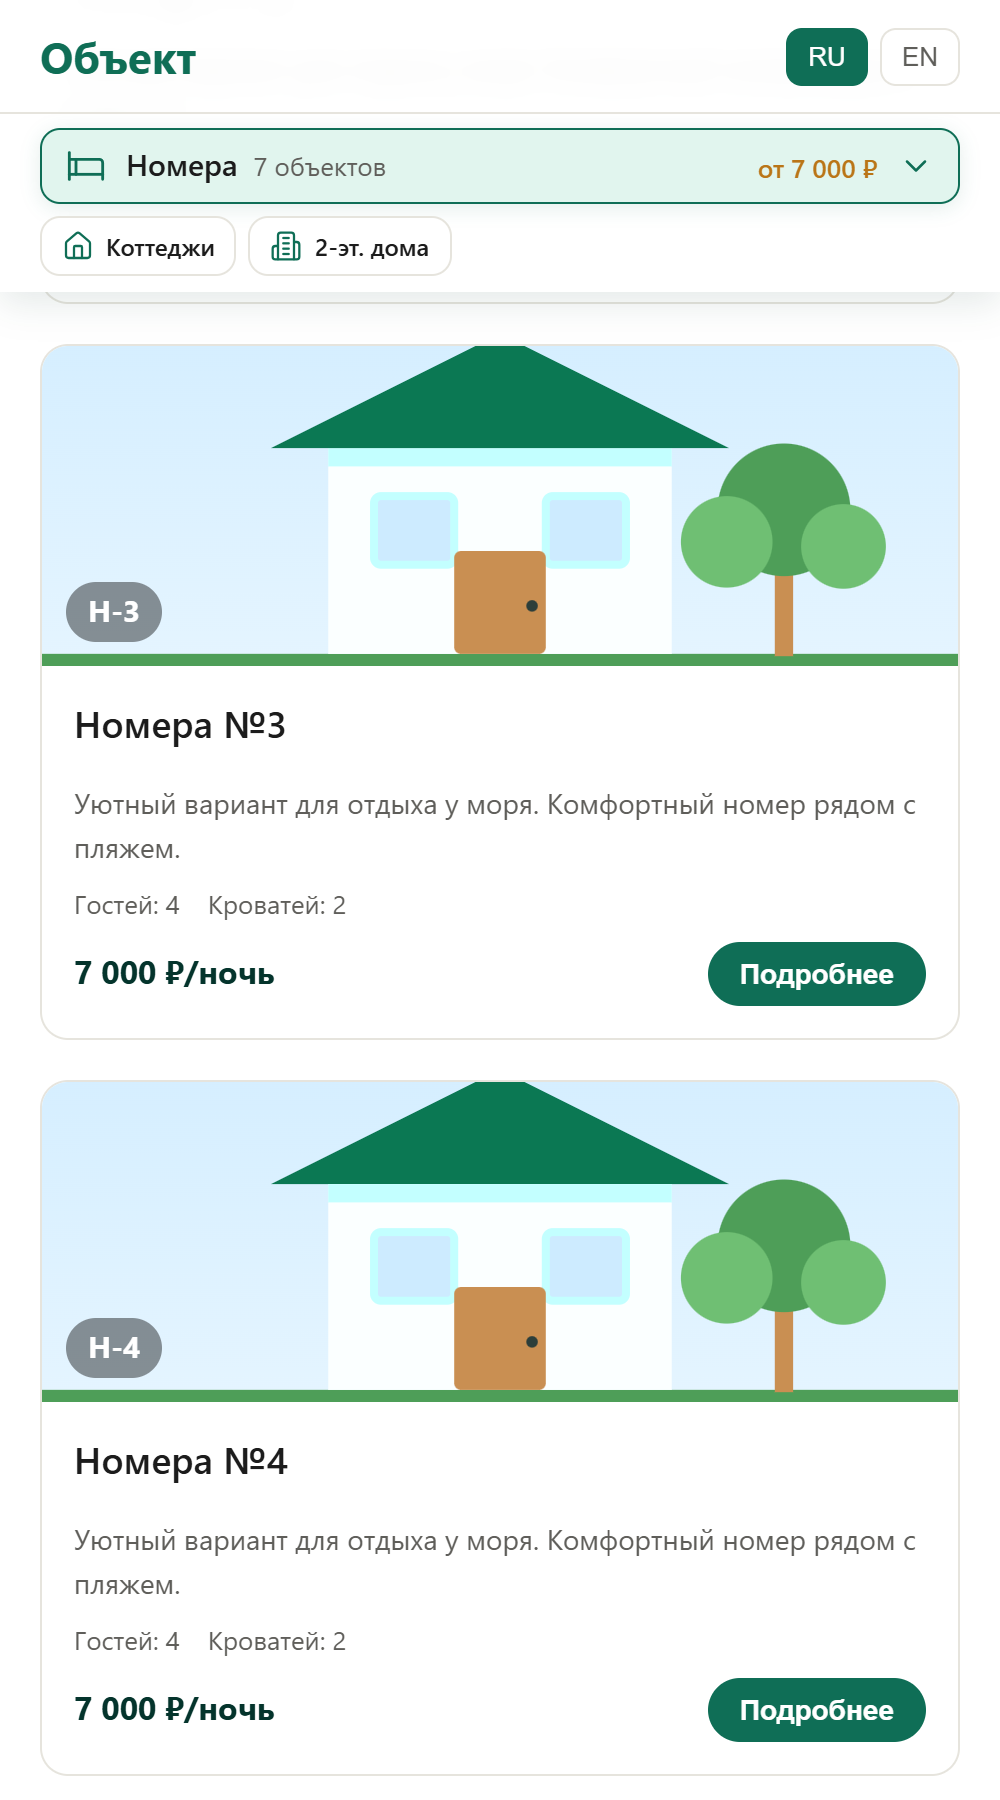
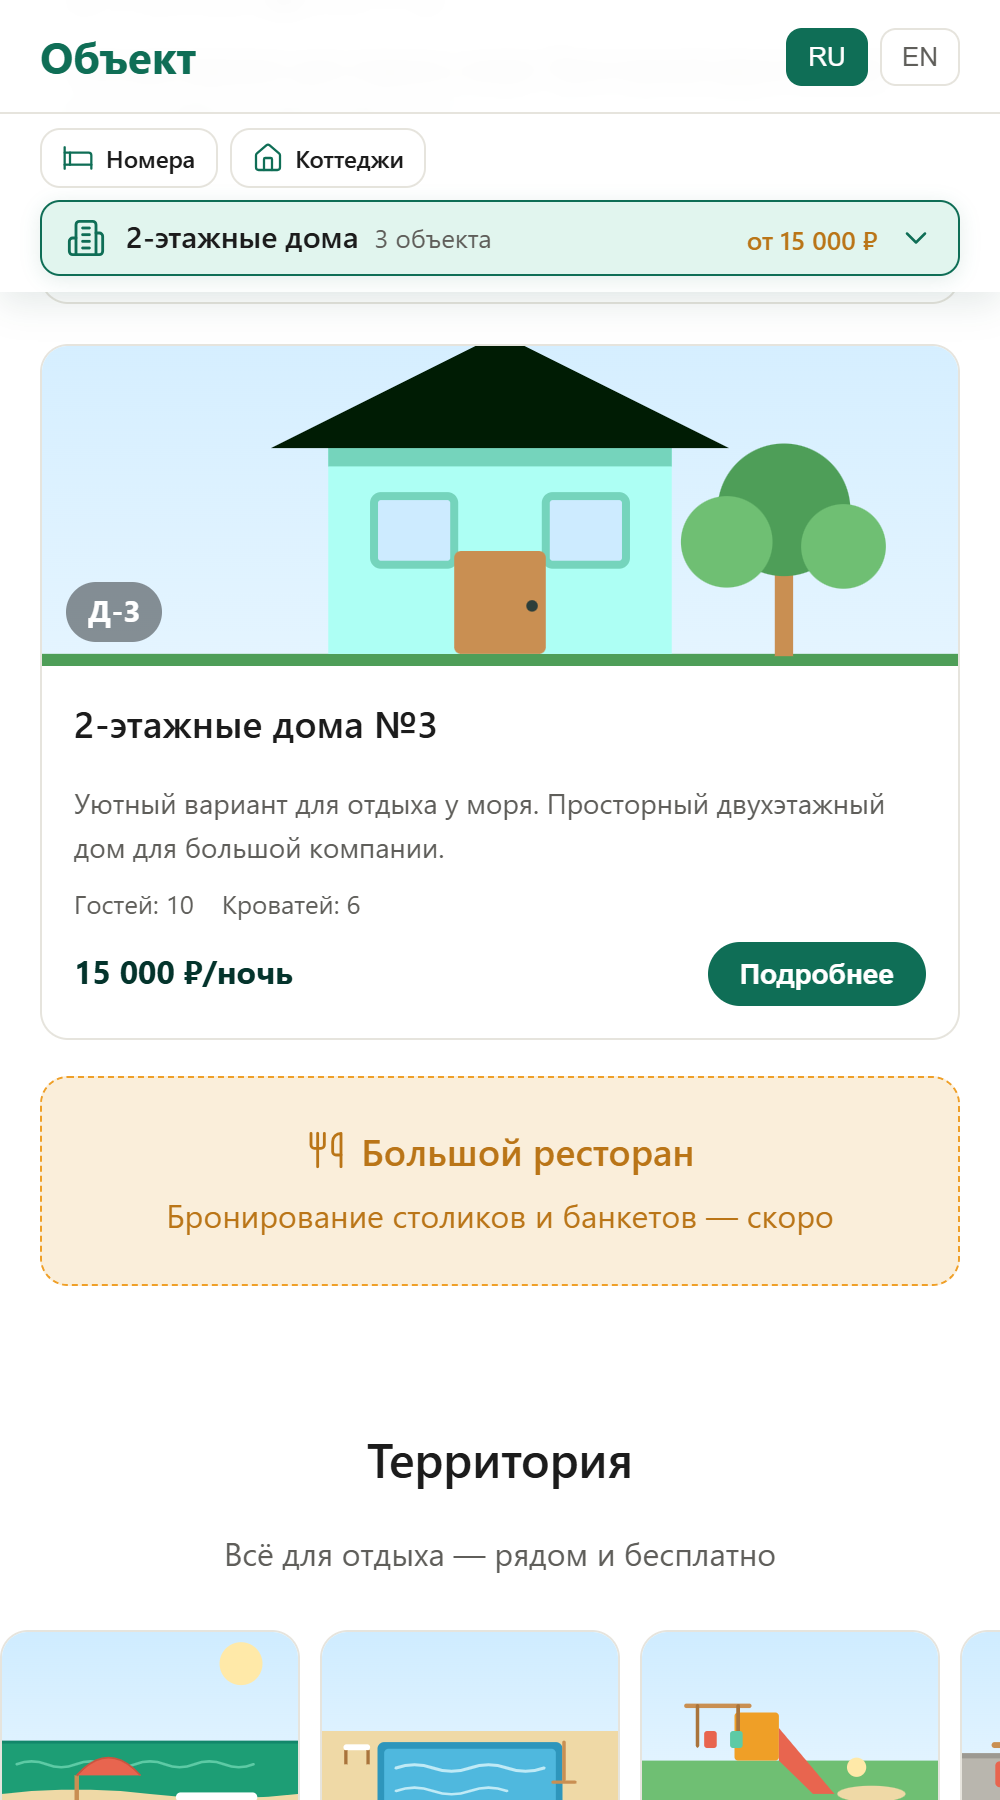
Закреплённая панель: активная категория всегда внизу, переключаемые — чипами сверху

diff --git a/scripts/check-prototype.js b/scripts/check-prototype.js
@@ -99,10 +99,41 @@ function check(name, ok, extra) {
   });
   check('При закреплении активная — во всю ширину, остальные — компактные',
     pinned.pinned && pinned.activeW > pinned.otherW * 1.8, JSON.stringify(pinned));
+
+  // 3е. Активная категория всегда внизу (последней строкой), какая бы ни была выбрана
+  const activeAlwaysLast = await page.evaluate(async () => {
+    const bar = document.querySelector('.cat-bar');
+    const res = [];
+    const wait = ms => new Promise(r => setTimeout(r, ms));
+    for (const id of ['room', 'cottage', 'house']) {
+      document.querySelector('[data-tile="' + id + '"]').click();
+      await wait(500);
+      window.scrollTo({ top: 900, behavior: 'instant' });   // прерываем плавную прокрутку
+      await wait(450);
+      const active = document.querySelector('.cat-tile.active');
+      const others = [...document.querySelectorAll('.cat-tile:not(.active)')];
+      const a = active.getBoundingClientRect();
+      const o = others.map(x => x.getBoundingClientRect());
+      res.push({
+        id: id,
+        activeTop: Math.round(a.top),
+        othersTop: Math.round(Math.min(...o.map(r => r.top))),
+        activeW: Math.round(a.width),
+        otherW: Math.round(Math.max(...o.map(r => r.width))),
+        pinned: bar.classList.contains('pinned')
+      });
+    }
+    return res;
+  });
+  check('Активная категория всегда внизу, переключаемые — сверху (любая активная)',
+    activeAlwaysLast.every(r => r.pinned && r.activeTop > r.othersTop && r.activeW > r.otherW * 1.8),
+    JSON.stringify(activeAlwaysLast));
   await page.evaluate(() => window.scrollTo(0, 0));
   await new Promise(r => setTimeout(r, 300));
 
   // 4. Модалка по клику на карточку
+  await page.evaluate(() => document.querySelector('[data-tile="house"]').click());
+  await new Promise(r => setTimeout(r, 500));
   await page.click('#cat-house [data-details]');
   await new Promise(r => setTimeout(r, 400));
   const modal = await page.evaluate(() => {

diff --git a/scripts/shots.js b/scripts/shots.js
@@ -22,10 +22,20 @@ const URL = 'http://localhost:8000/';
   await new Promise(r => setTimeout(r, 500));
   await m.screenshot({ path: path.join(OUT, 'm1-tiles.png') });
 
-  // закреплённая панель: активная во всю ширину, остальные — компактные чипы
-  await m.evaluate(() => window.scrollTo(0, 1200));
+  // закреплённая панель: активная всегда внизу, переключаемые — чипами сверху
+  // сначала последняя категория в списке
+  await m.evaluate(() => document.querySelector('[data-tile="house"]').click());
+  await new Promise(r => setTimeout(r, 700));
+  await m.evaluate(() => window.scrollTo({ top: 1200, behavior: 'instant' }));
   await new Promise(r => setTimeout(r, 500));
   await m.screenshot({ path: path.join(OUT, 'm1b-pinned.png') });
+
+  // затем первая категория — активная всё равно должна встать вниз
+  await m.evaluate(() => document.querySelector('[data-tile="room"]').click());
+  await new Promise(r => setTimeout(r, 700));
+  await m.evaluate(() => window.scrollTo({ top: 1200, behavior: 'instant' }));
+  await new Promise(r => setTimeout(r, 500));
+  await m.screenshot({ path: path.join(OUT, 'm1c-pinned-room.png') });
   await m.evaluate(() => window.scrollTo(0, 0));
   await new Promise(r => setTimeout(r, 400));
 

diff --git a/assets/css/styles.css b/assets/css/styles.css
@@ -308,9 +308,11 @@ form .row label { flex: 1; }
   .cat-tile .tile-price, .cat-tile .tile-chev { display: none; }
   .cat-tile .tile-ico svg { width: 18px; height: 18px; }
 
-  /* когда панель закреплена: активная категория во всю ширину, остальные — свёрнутые чипы */
+  /* когда панель закреплена: активная категория всегда во всю ширину и всегда последней строкой,
+     остальные — свёрнутые чипы сверху (независимо от того, какая категория выбрана) */
   .cat-bar.pinned .cat-tiles { display: flex; flex-wrap: wrap; gap: 6px; }
-  .cat-bar.pinned .cat-tile.active { flex: 1 0 100%; justify-content: flex-start; padding: 8px 12px; gap: 10px; }
+  .cat-bar.pinned .cat-tile { order: 0; }
+  .cat-bar.pinned .cat-tile.active { order: 1; flex: 1 0 100%; justify-content: flex-start; padding: 8px 12px; gap: 10px; }
   .cat-bar.pinned .cat-tile.active .tile-txt { display: flex; flex-direction: row; align-items: baseline; gap: 8px; }
   .cat-bar.pinned .cat-tile.active .tile-short { display: none; }
   .cat-bar.pinned .cat-tile.active .tile-price { display: block; font-size: 13px; }
